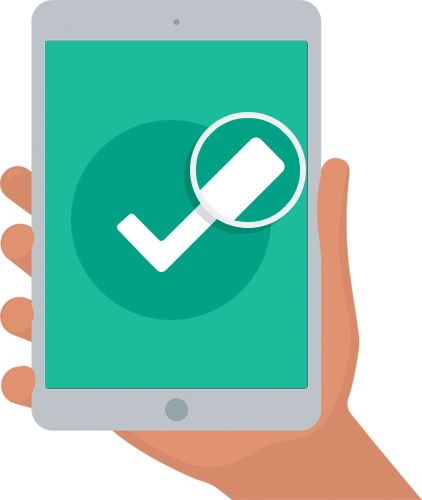
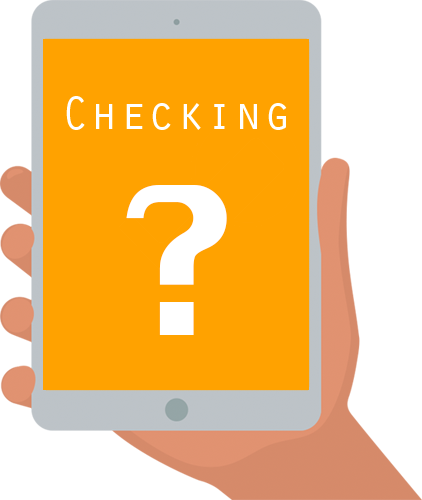
Added Pending image and renamed the ipad-hand images to be sane.

diff --git a/index.html b/index.html
@@ -58,11 +58,11 @@
                 var serverImg = document.getElementById( "server-status-img" );
                 if (data < 1000){
                     serverMsg.innerHTML ='Up and reachable';
-                    serverImg.src = "assets/img/ipad-hand.png";
+                    serverImg.src = "assets/img/ipad-hand-on.png";
                     body.addClass('online').removeClass("offline");
                 }else{
                     serverMsg.innerHTML = 'Down and unreachable';
-                    serverImg.src = "assets/img/ipad-hand-x.png";
+                    serverImg.src = "assets/img/ipad-hand-off.png";
                 }
             }, timeout);
         }
@@ -152,7 +152,7 @@
 					  				
 				</div><!-- /col-lg-6 -->
 				<div class="col-lg-6">
-					<img id="server-status-img" class="img-responsive" src="assets/img/ipad-hand-x.png" alt="">
+					<img id="server-status-img" class="img-responsive" src="assets/img/ipad-hand.png" alt="">
 				</div><!-- /col-lg-6 -->
 				
 			</div><!-- /row -->
